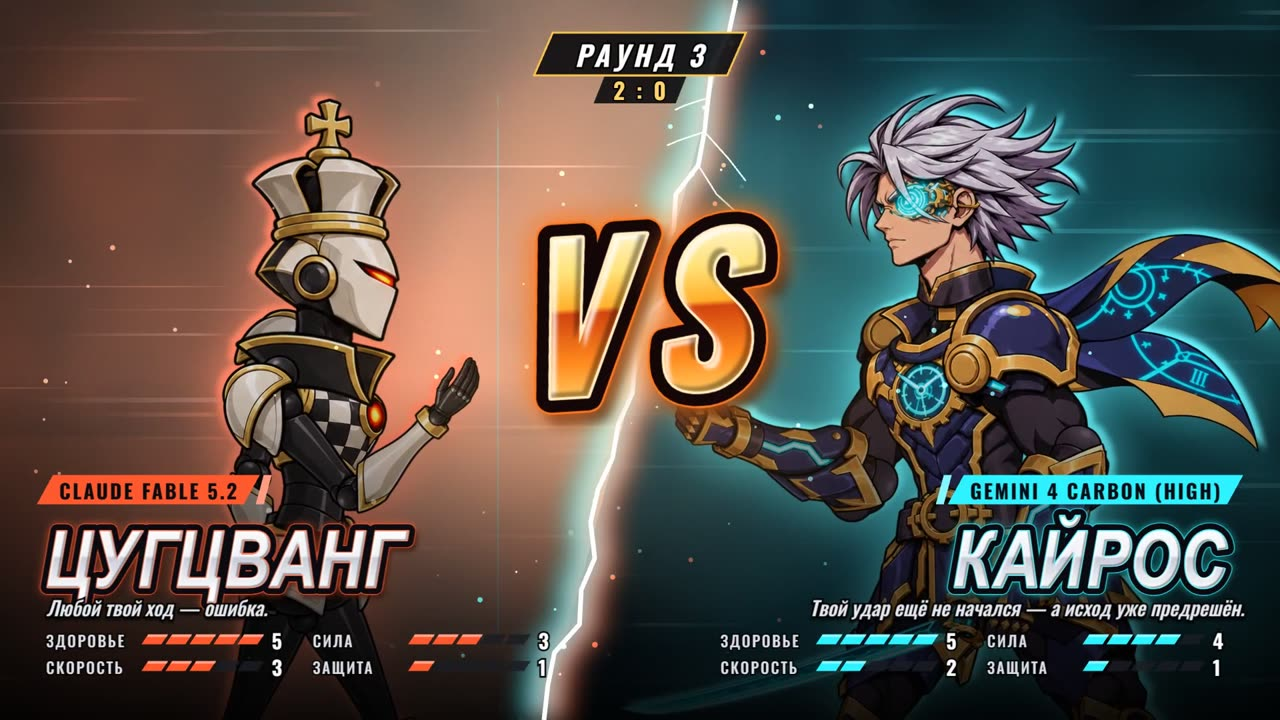
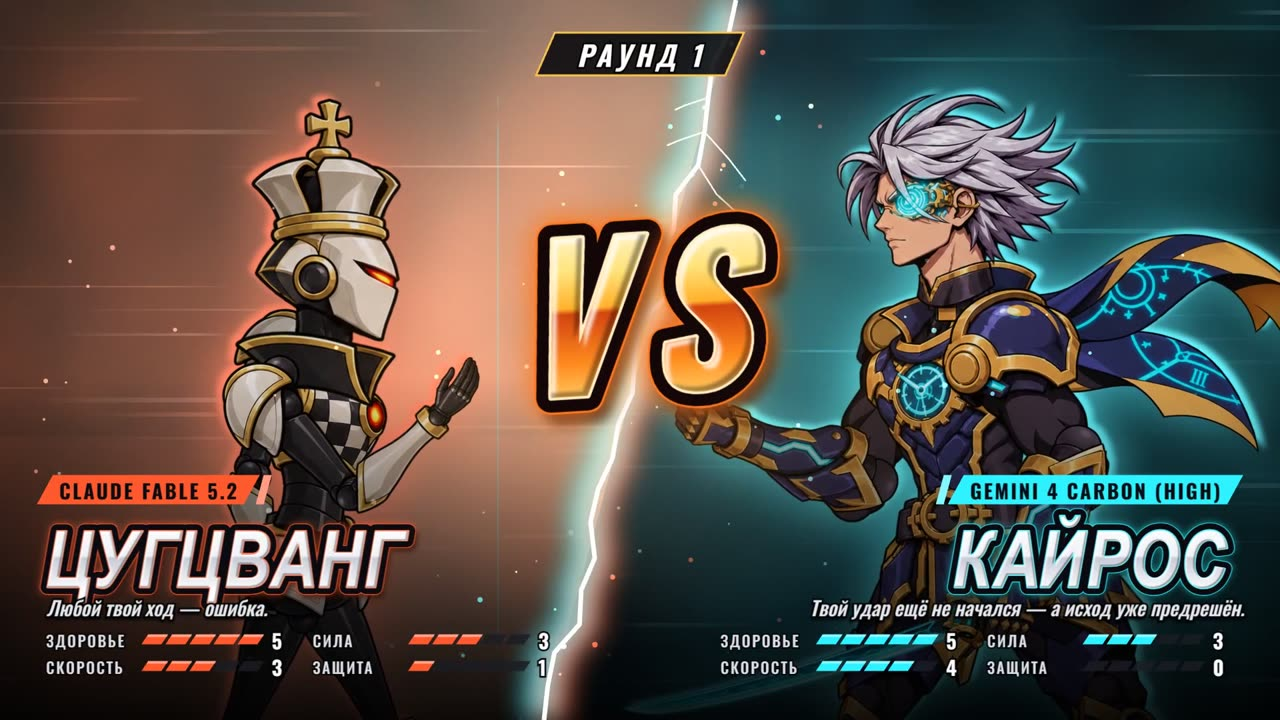
README: кадры без счёта матча

diff --git a/README.md b/README.md
@@ -31,7 +31,7 @@ npm start
 
 Всё, что сделали модели, лежит файлами: `matches/match-2026-11-14/round-N/fable/fighter/` (Цугцванг) и `…/carbon/fighter/` (КАЙРОС). Мозги в `brain.js`, способности в `abilities/*.js`, приёмы в `moves.json`, скелет и анимации в `body.json`, картинки частей в `parts/`.
 
-![Раунд 3 в «Серверной»](docs/img/fight.jpg)
+![Раунд 2 на крыше под дождём](docs/img/fight.jpg)
 
 ## Сыграть
 
